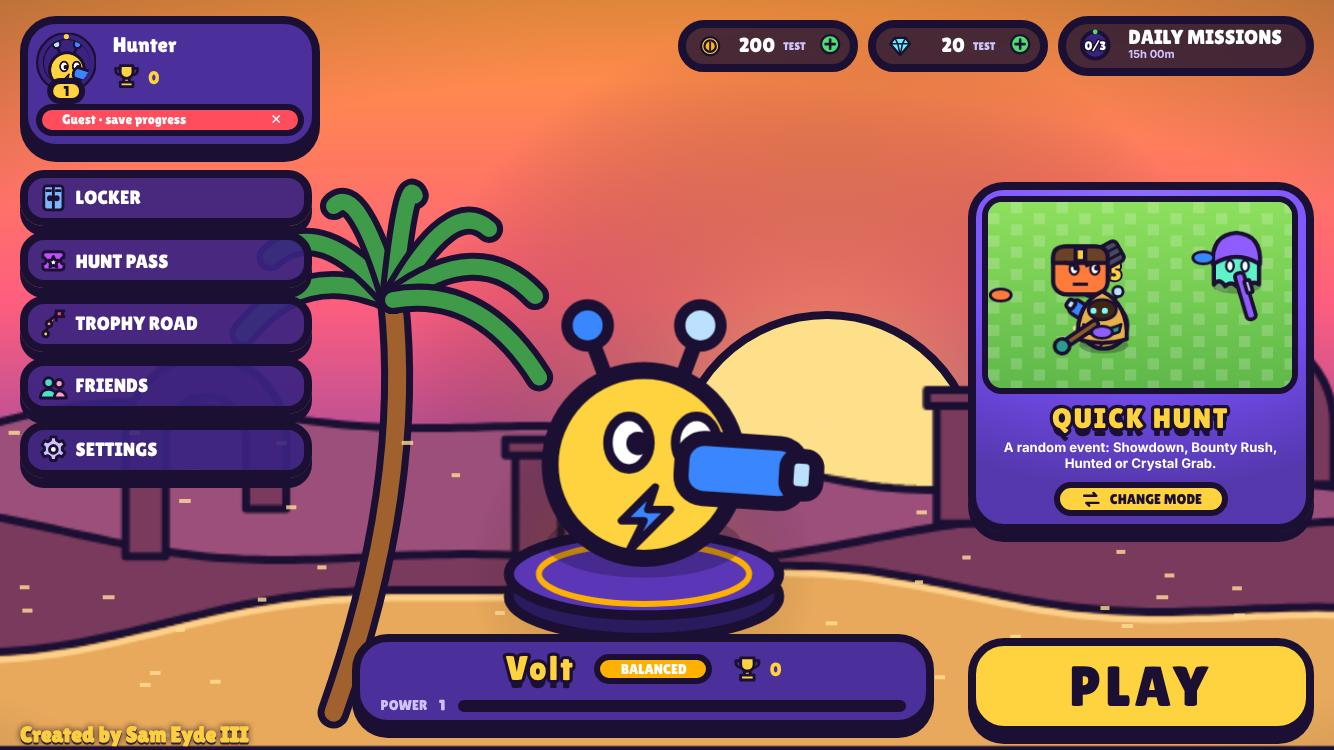
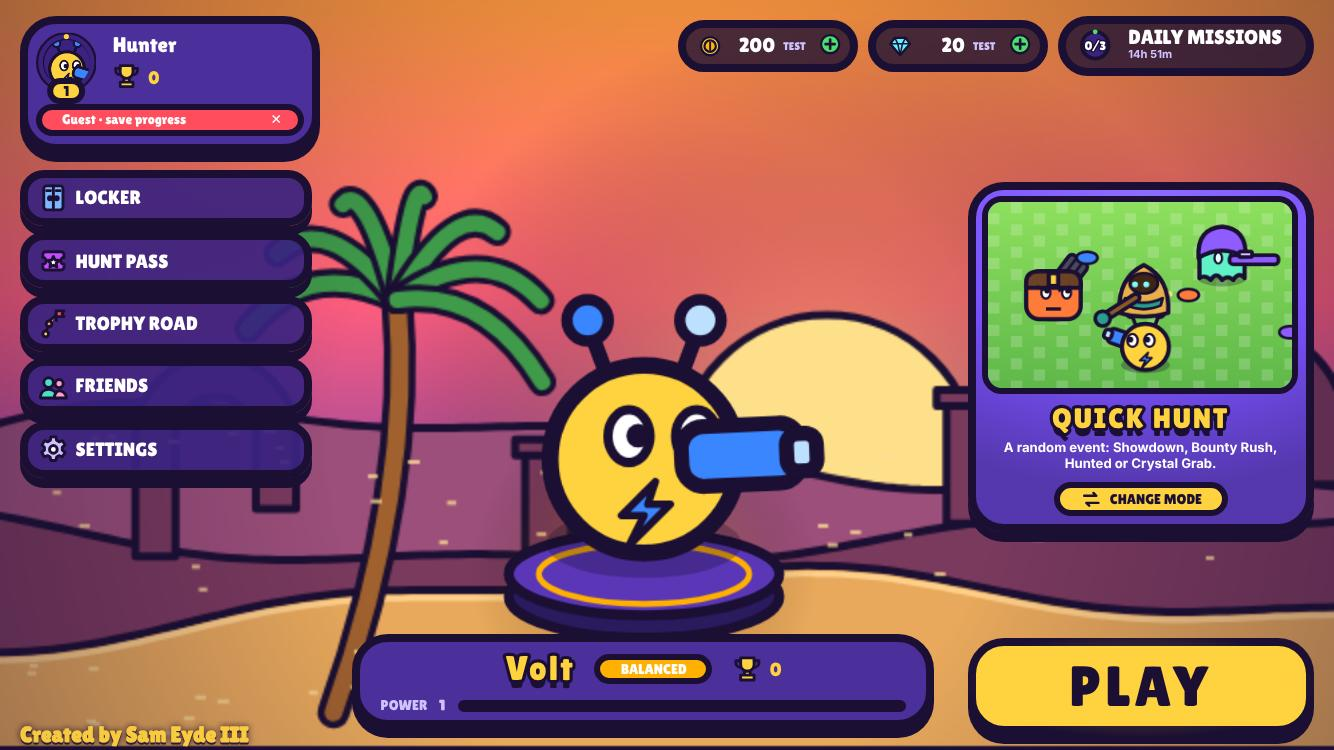
UI overhaul: perf tuning, results pose scale, tests, screenshots + report
- lobby: cached sky/sun/vignette, opacity-only PLAY glow, adaptive backdrop/stage
  resolution (13 -> 47 fps on throttled software-raster SE emulation; 60 with
  Low Graphics)
- feel/ui specs updated; music ducking verified
- docs/ui: every screen on iPhone SE / Pro Max / iPad, before/after lobby
- MORNING_REPORT.md: UI overhaul section

Claude-Session: https://claude.ai/code/session_01ULcSdMBoazBaVJdhzVFwFu

diff --git a/hunt/public/ui/scenes.js b/hunt/public/ui/scenes.js
@@ -124,20 +124,28 @@ function paintLayer(L, w, h, seed) {
 
 export class LobbyScene {
   constructor(canvas) { this.cv = canvas; this.g = canvas.getContext('2d'); this.world = null; this.layers = []; this.parts = []; this.staticDone = false; }
-  resize(w, h, dpr) { this.w = w; this.h = h; this.dpr = dpr; this.cv.width = Math.round(w * dpr); this.cv.height = Math.round(h * dpr); this.build(); }
+  // the backdrop is soft, so it renders at 1x (4x fewer pixels than 2x on phones)
+  resize(w, h, dpr) { this.w = w; this.h = h; this.dpr = Math.min(this.maxDpr ?? 1, dpr); this.cv.width = Math.round(w * this.dpr); this.cv.height = Math.round(h * this.dpr); this.build(); }
   setWorld(k) { if (this.world !== k) { this.world = k; this.build(); } }
   build() {
     if (!this.w || !this.world) return;
     const W = WORLDS[this.world] || WORLDS.mirage;
     this.layers = W.layers.map((L, i) => ({ L, cv: paintLayer(L, this.w * 2, this.h, i * 31 + this.world.length) }));
     this.parts = Array.from({ length: W.particles.n }, (_, i) => ({ x: Math.random(), y: Math.random(), s: 0.5 + Math.random(), p: Math.random() * 6 }));
+    this.sky = this.paintSky(W);
+    this.vig = this.paintVignette();
     this.staticDone = false;
   }
-  draw(t) {
-    if (!this.layers.length) return;
-    if (SETTINGS.lowGfx) { if (this.staticDone) return; t = 0; this.staticDone = true; } else this.staticDone = false;
-    const { g, w, h } = this, W = WORLDS[this.world] || WORLDS.mirage;
-    g.setTransform(this.dpr, 0, 0, this.dpr, 0, 0);
+  paintVignette() {
+    const { w, h } = this, cv = mkCanvas(Math.ceil(w), Math.ceil(h)), g = cv.getContext('2d');
+    const v = g.createRadialGradient(w / 2, h * 0.6, Math.min(w, h) * 0.45, w / 2, h * 0.6, Math.max(w, h) * 0.75);
+    v.addColorStop(0, 'rgba(27,16,51,0)'); v.addColorStop(1, 'rgba(27,16,51,.55)');
+    g.fillStyle = v; g.fillRect(0, 0, w, h);
+    return cv;
+  }
+  // sky gradient + sun + glow never move: paint them once per size/world
+  paintSky(W) {
+    const { w, h } = this, cv = mkCanvas(Math.ceil(w), Math.ceil(h)), g = cv.getContext('2d');
     const sky = g.createLinearGradient(0, 0, 0, h * 0.8);
     W.sky.forEach((c, i) => sky.addColorStop(i / (W.sky.length - 1), c));
     g.fillStyle = sky; g.fillRect(0, 0, w, h);
@@ -146,6 +154,15 @@ export class LobbyScene {
     glow.addColorStop(0, S.glow); glow.addColorStop(1, 'rgba(0,0,0,0)');
     g.fillStyle = glow; g.fillRect(0, 0, w, h);
     g.beginPath(); g.arc(w * 0.62, S.y * h, sr, 0, Math.PI * 2); g.fillStyle = S.c; g.fill(); g.lineWidth = 4; g.strokeStyle = INK; g.stroke();
+    return cv;
+  }
+  draw(t) {
+    if (!this.layers.length) return;
+    if (SETTINGS.lowGfx) { if (this.staticDone) return; t = 0; this.staticDone = true; } else this.staticDone = false;
+    const { g, w, h } = this, W = WORLDS[this.world] || WORLDS.mirage;
+    g.setTransform(this.dpr, 0, 0, this.dpr, 0, 0);
+    g.drawImage(this.sky, 0, 0, w, h);
+    const S = W.sun, sr = S.r * h;
     if (this.world === 'mirage' && !SETTINGS.lowGfx) { // heat shimmer bands across the low sun
       g.save(); g.globalAlpha = 0.25; g.strokeStyle = '#fff3d0'; g.lineWidth = 3;
       for (let k = 0; k < 4; k++) { g.beginPath(); for (let x = w * 0.62 - sr * 1.4; x < w * 0.62 + sr * 1.4; x += 8) g.lineTo(x, S.y * h + sr * 0.2 + k * 10 + Math.sin(x * 0.05 + t * 3 + k) * 3); g.stroke(); }
@@ -157,6 +174,7 @@ export class LobbyScene {
     }
     this.prop(g, W.prop, t);
     if (!SETTINGS.lowGfx) this.particles(g, W.particles, t);
+    g.drawImage(this.vig, 0, 0, w, h);
   }
   prop(g, kind, t) {
     const { w, h } = this, sway = SETTINGS.reduceFlash ? 0 : Math.sin(t * 0.9) * 0.06;

diff --git a/hunt/public/ui/lobby.css b/hunt/public/ui/lobby.css
@@ -5,7 +5,6 @@
   grid-template-areas: ". . . . ." ". left top top ." ". left stage right ." ". left stage play ." ". . . . ."; }
 #lobbyBg { position: absolute; inset: 0; width: 100%; height: 100%; z-index: 0; }
 .lobby > * { position: relative; z-index: 1; }
-.lobby::after { content: ''; position: absolute; inset: 0; background: radial-gradient(120% 90% at 50% 60%, transparent 55%, rgba(27,16,51,.55)); pointer-events: none; z-index: 0; }
 
 /* top bar */
 .lb-top { grid-area: top; display: flex; justify-content: flex-end; gap: calc(var(--u) * 1); align-items: center; flex-wrap: wrap; }
@@ -61,9 +60,11 @@
 .ribbon { position: absolute; top: 10px; right: -8px; background: var(--red); color: #fff; font-family: var(--font); font-size: calc(var(--u) * 1.4); border: 3px solid var(--ink); padding: 1px 10px; transform: rotate(8deg); box-shadow: var(--drop); z-index: 2; }
 .ribbon.event { background: var(--mint); color: var(--ink); }
 .play { grid-area: play; align-self: end; justify-self: stretch; margin-top: calc(var(--u) * 1); }
-.btn.play { font-size: calc(var(--u) * 5.6); padding: calc(var(--u) * 1.2) calc(var(--u) * 2); letter-spacing: 2px; animation: play-glow 2.4s ease-in-out infinite; }
-@keyframes play-glow { 0%, 100% { box-shadow: var(--drop), 0 0 0 0 rgba(255, 210, 63, 0); } 50% { box-shadow: var(--drop), 0 0 calc(var(--u) * 3) calc(var(--u) * .6) rgba(255, 210, 63, .55); } }
-body.reduce-flash .btn.play { animation: none; box-shadow: var(--drop), 0 0 calc(var(--u) * 2) rgba(255, 210, 63, .45); }
+.btn.play { font-size: calc(var(--u) * 5.6); padding: calc(var(--u) * 1.2) calc(var(--u) * 2); letter-spacing: 2px; }
+/* pulsing glow on a separate layer: only opacity animates, so the browser never repaints the button */
+.btn.play::before { content: ''; position: absolute; inset: calc(var(--u) * -1.2); border-radius: calc(var(--radius) + 10px); background: radial-gradient(closest-side, rgba(255, 210, 63, .7), rgba(255, 210, 63, 0)); z-index: -1; animation: play-glow 2.4s ease-in-out infinite; will-change: opacity; pointer-events: none; }
+@keyframes play-glow { 0%, 100% { opacity: .15; } 50% { opacity: .9; } }
+body.reduce-flash .btn.play::before { animation: none; opacity: .5; }
 #lobby #credit { position: absolute; z-index: 3; left: var(--sa-l); right: auto; bottom: max(2px, env(safe-area-inset-bottom)); color: var(--gold); font-family: var(--font); font-size: 11px; opacity: .9; text-shadow: 0 1px 0 var(--ink), 0 0 3px var(--ink); }
 
 /* portrait phones: stack it */

diff --git a/hunt/public/ui/lobby.js b/hunt/public/ui/lobby.js
@@ -68,8 +68,18 @@ export function createLobby(api) {
   const stage = $('stage'), sg = stage.getContext('2d'), mcv = $('modeCv'), mg = mcv.getContext('2d');
   const av = $('avatarCv').getContext('2d');
 
+  // adaptive quality: slow frames step the backdrop/stage resolution down (soft backdrop upscales fine)
+  const Q = [{ bg: 1, st: 1.5 }, { bg: 0.75, st: 1.25 }, { bg: 0.5, st: 1 }];
+  L.q = 0; L.avg = 16.7; L.slow = 0; L.fast = 0;
+  function adapt(dt) {
+    L.avg += (dt - L.avg) * 0.08;
+    if (L.avg > 19) { L.slow += dt; L.fast = 0; } else if (L.avg < 14) { L.fast += dt; L.slow = 0; }
+    if (L.slow > 800 && L.q < Q.length - 1) { L.q++; L.slow = 0; resize(); }
+    else if (L.fast > 10000 && L.q > 0) { L.q--; L.fast = 0; resize(); }
+  }
   function resize() {
-    const dpr = SETTINGS.lowGfx ? 1 : Math.min(2, devicePixelRatio || 1);
+    const dpr = SETTINGS.lowGfx ? 1 : Math.min(Q[L.q].st, devicePixelRatio || 1);
+    scene.maxDpr = SETTINGS.lowGfx ? 1 : Q[L.q].bg;
     scene.resize(innerWidth, innerHeight, dpr);
     const r = stage.getBoundingClientRect();
     stage.width = Math.max(1, Math.round(r.width * dpr)); stage.height = Math.max(1, Math.round(r.height * dpr)); L.dpr = dpr;
@@ -146,6 +156,8 @@ export function createLobby(api) {
     L.raf = 0;
     if (root.hidden) return;
     const t = (now - L.t0) / 1000;
+    if (L.lastNow) adapt(Math.min(100, now - L.lastNow));
+    L.lastNow = now;
     scene.draw(t);
     drawStage(t);
     drawModePreview(mg, L.mode === 'free' ? 'free' : L.mode, mcv.width, mcv.height, t);
@@ -187,9 +199,9 @@ export function createLobby(api) {
     if (!L.raf) L.raf = requestAnimationFrame(loop);
     startMusic();
   }
-  function hide() { root.hidden = true; stopMusic(); }
+  function hide() { root.hidden = true; L.lastNow = 0; stopMusic(); }
   // music needs a user gesture on mobile: start on the first tap in the lobby
   root.addEventListener('pointerdown', () => { unlockAudio(); if (!root.hidden) startMusic(); }, { once: false });
-  return { show, hide, refresh, get mode() { return L.mode; } };
+  return { show, hide, refresh, get mode() { return L.mode; }, perf: () => ({ q: L.q, avg: L.avg }) };
 }
 export { ICONS };

diff --git a/hunt/tests/e2e/ui.spec.js b/hunt/tests/e2e/ui.spec.js
@@ -82,6 +82,7 @@ test('lobby music plays after a tap and ducks under popups; Low Graphics freezes
   await page.waitForTimeout(300);
   expect(await page.evaluate(async () => (await import('/ui/music.js')).isDucked())).toBe(false);
   await page.click('#rail_settings'); await page.check('#setLow'); await page.click('.ui-screen .back');
+  await page.waitForTimeout(500); // the static Low Graphics frame (at 1x) is drawn once
   const a = await page.evaluate(() => document.getElementById('lobbyBg').toDataURL().length);
   await page.waitForTimeout(600);
   const b = await page.evaluate(() => document.getElementById('lobbyBg').toDataURL().length);

diff --git a/hunt/tests/e2e/feel.spec.js b/hunt/tests/e2e/feel.spec.js
@@ -34,7 +34,9 @@ test('end screen: victory pose + Top Bounty Hunter MVP banner', async ({ page })
 
 test('Reduce Flashing: no screen shake', async ({ page }) => {
   await page.goto('/');
+  await page.click('#rail_settings');
   await page.check('#setFlash');
+  await page.click('.ui-screen .back');
   await page.goto('/?world=meadow&mode=bounty');
   await waitMe(page);
   const s = await page.evaluate(async () => { const G = window.__hunt; G.shake = 20; await new Promise((r) => setTimeout(r, 100)); return G.shake; });

diff --git a/hunt/public/game.js b/hunt/public/game.js
@@ -323,7 +323,7 @@ function startPose(won) {
     const t = (now - t0) / 1000;
     c2.setTransform(d, 0, 0, d, 0, 0); c2.clearRect(0, 0, cv.width, cv.height);
     const w = cv.clientWidth, h = cv.clientHeight;
-    const fit = Math.min(1.6, h / 70); // brawler is ~70 units tall at scale 1
+    const fit = Math.min(4, h / 80, w / 70); // brawler is ~70 units tall at scale 1
     let y = h * 0.66, face = 0.3, sc = fit;
     if (won) {
       const k = Math.min(1, t / 1.2);

diff --git a/hunt/MORNING_REPORT.md b/hunt/MORNING_REPORT.md
@@ -195,3 +195,131 @@ Debug flags:
 - `?world=<key>&mode=<mode>&ev=<event>` puts you straight into a match with bots.
 - `?mapview=1` shows the whole map with collision boxes.
 - `?free=1` goes straight to Free Play.
+
+---
+
+# UI overhaul (branch `ui/overhaul`)
+
+Every screen outside a match was rebuilt on one design system, in the same bold cartoon style. All art is drawn in code or SVG, the music is synthesized live, and there are no image or audio files.
+
+## Lobby: before / after
+
+| | iPhone SE | iPhone Pro Max | iPad |
+|---|---|---|---|
+| **Before** | ![](docs/ui/before-lobby-se.jpg) | ![](docs/ui/before-lobby-promax.jpg) | ![](docs/ui/before-lobby-ipad.jpg) |
+| **After** | ![](docs/ui/ui-lobby-se.jpg) | ![](docs/ui/ui-lobby-promax.jpg) | ![](docs/ui/ui-lobby-ipad.jpg) |
+
+## What's new
+
+**Design system**
+- `public/ui/tokens.css` is the single place for colours, the one outline thickness, the one shadow, 3 button sizes (`btn-sm`/`md`/`lg`), 2 card styles (`card-a` solid, `card-b` art card with a role-coloured backdrop), motion timing and safe-area padding.
+- Sizes scale from the screen's short side, so the same layout fits an iPhone SE and an iPad.
+- `public/ui/icons.js` holds one SVG icon style: chunky fill with the shared ink outline.
+
+**Lobby**
+- **Living background.** Parallax layers of the featured world: Desert Mirage has dunes, ruins, a low sun with heat shimmer, a swaying palm and drifting sand. It rotates to a different world each day, and `?featured=<world>` forces one.
+- **Centre stage.** Your brawler stands on a glowing pedestal at about 40% of screen height, and idles with a bob, blink and weapon twirl. Tapping it plays a taunt; tapping again opens brawler select. The name plate shows name, role, trophies and a power-level bar.
+- **Left rail.**
+  - Profile card: avatar, name, level ring with an XP arc, and trophies.
+  - The guest banner is now a small dismissible "Guest · save progress" chip on the card.
+  - Icon buttons for Locker, Hunt Pass, Trophy Road, Friends and Settings, each with a red dot when something is claimable or new.
+- **Top bar.** Test coins and test gems, each with a "+" chip; the "+" explains test currency, since there are no payments. A daily-missions chip shows a progress ring and the time until reset.
+- **Mode card.** An animated preview of the current mode, a ribbon, and a tap to open the mode picker.
+- **PLAY button.**
+  - Bottom-right, chunky yellow with a pulsing glow.
+  - Press-squash, release-bounce and a play sound.
+  - Tested to stay fully on screen on all three sizes, and never to overlap the mode card.
+- **Moved off the main screen.** Your name lives in Profile and the room code in a Play with Friends popup. "Created by Sam Eyde III" stays visible in gold, small, bottom-left.
+
+**Brawler select**
+- Large role-coloured cards, with the brawler drawn bursting out of the top of the frame.
+- Role filter chips.
+- Tapping a card flips open a detail panel:
+  - an animated portrait;
+  - Health / Damage / Speed / Range bars;
+  - looping demo animations for the Attack and the Super;
+  - the skin picker.
+
+**Mode picker**
+- Quick Hunt, Squad Hunt (NEW), Free Play and Showdown (EVENT), each with animated art, a one-line description and the player count.
+- The 9 world events are previewed as icons along the bottom.
+- Quick play can now queue for one specific mode: the matchmaker keeps a separate filling match per mode.
+
+**Locker**
+- Skins on rotating pedestals, plus Kill Effects and Titles tabs.
+- A big live preview of the equipped look, with a kill-effect preview button.
+
+**Hunt Pass**
+- A horizontally scrolling track: premium row on top, free row below.
+- A progress bar that fills with a shine.
+- Claiming pops the reward and flies coins into the top-bar counter, with light rays.
+
+**Trophy Road**
+- A winding vertical path with milestones and rewards on alternating sides.
+- It auto-scrolls to your position, marked with a glowing marker.
+
+**Match flow**
+- **Matchmaking:** your brawler runs in place on a spinning radar, with a players-found counter ("3/10 hunters found · starts in 6"), rotating tips and a cancel button.
+- **Match intro:** a 2-second VS splash with "ENTERING DESERT MIRAGE" and the mode name.
+- **Results:**
+  - the rank slams in, then your brawler's victory pose (or a sulk);
+  - trophies count up and the XP bar fills;
+  - bounty earned and KOs, plus the Top Bounty Hunter MVP banner;
+  - Play Again and Lobby buttons.
+
+**Motion and sound**
+- Every button squashes on press, bounces on release and plays a click.
+- Screens slide and scale in over about 260 ms with ease-out and fade out; popups pop in. There are no hard cuts.
+- Rewards fire light rays and confetti; under Reduce Flashing that becomes a soft fade only.
+- **Original lobby music:** an upbeat 4-bar loop at 116 BPM (bass bounce, plucky lead, pad, drums) synthesized live. It ducks under popups.
+- Settings has separate Music and SFX sliders.
+
+**Daily missions and gems (test currency)**
+- 3 missions a day, the same for every player, resetting at 00:00 UTC.
+- Progress is tracked on the server when a match is recorded; rewards are test coins or gems.
+
+## Every screen on 3 devices
+
+| Screen | | | |
+|---|---|---|---|
+| Lobby | [iPhone SE](docs/ui/ui-lobby-se.jpg) | [iPhone Pro Max](docs/ui/ui-lobby-promax.jpg) | [iPad](docs/ui/ui-lobby-ipad.jpg) |
+| Brawler select | [iPhone SE](docs/ui/ui-brawlers-se.jpg) | [iPhone Pro Max](docs/ui/ui-brawlers-promax.jpg) | [iPad](docs/ui/ui-brawlers-ipad.jpg) |
+| Brawler detail (flip panel) | [iPhone SE](docs/ui/ui-detail-se.jpg) | [iPhone Pro Max](docs/ui/ui-detail-promax.jpg) | [iPad](docs/ui/ui-detail-ipad.jpg) |
+| Mode picker | [iPhone SE](docs/ui/ui-modes-se.jpg) | [iPhone Pro Max](docs/ui/ui-modes-promax.jpg) | [iPad](docs/ui/ui-modes-ipad.jpg) |
+| Locker | [iPhone SE](docs/ui/ui-locker-se.jpg) | [iPhone Pro Max](docs/ui/ui-locker-promax.jpg) | [iPad](docs/ui/ui-locker-ipad.jpg) |
+| Hunt Pass | [iPhone SE](docs/ui/ui-pass-se.jpg) | [iPhone Pro Max](docs/ui/ui-pass-promax.jpg) | [iPad](docs/ui/ui-pass-ipad.jpg) |
+| Trophy Road | [iPhone SE](docs/ui/ui-road-se.jpg) | [iPhone Pro Max](docs/ui/ui-road-promax.jpg) | [iPad](docs/ui/ui-road-ipad.jpg) |
+| Matchmaking | [iPhone SE](docs/ui/ui-matchmaking-se.jpg) | [iPhone Pro Max](docs/ui/ui-matchmaking-promax.jpg) | [iPad](docs/ui/ui-matchmaking-ipad.jpg) |
+| Match intro (VS) | [iPhone SE](docs/ui/ui-intro-se.jpg) | [iPhone Pro Max](docs/ui/ui-intro-promax.jpg) | [iPad](docs/ui/ui-intro-ipad.jpg) |
+| Results | [iPhone SE](docs/ui/ui-results-se.jpg) | [iPhone Pro Max](docs/ui/ui-results-promax.jpg) | [iPad](docs/ui/ui-results-ipad.jpg) |
+| Profile | [iPhone SE](docs/ui/ui-profile-se.jpg) | [iPhone Pro Max](docs/ui/ui-profile-promax.jpg) | [iPad](docs/ui/ui-profile-ipad.jpg) |
+| Settings | [iPhone SE](docs/ui/ui-settings-se.jpg) | [iPhone Pro Max](docs/ui/ui-settings-promax.jpg) | [iPad](docs/ui/ui-settings-ipad.jpg) |
+| Play with Friends | [iPhone SE](docs/ui/ui-friends-se.jpg) | [iPhone Pro Max](docs/ui/ui-friends-promax.jpg) | [iPad](docs/ui/ui-friends-ipad.jpg) |
+| Daily missions | [iPhone SE](docs/ui/ui-missions-se.jpg) | [iPhone Pro Max](docs/ui/ui-missions-promax.jpg) | [iPad](docs/ui/ui-missions-ipad.jpg) |
+
+## Checks
+
+- **Tests:** 35 Playwright tests pass on Chromium. New in `tests/e2e/ui.spec.js`:
+  - For each of the 3 sizes, PLAY, the profile card, mode card, name plate, missions chip, Settings button and credit are all fully inside the screen, and PLAY never overlaps the mode card.
+  - Every screen opens and closes through its transition.
+  - The mode picker changes the mode card.
+  - Missions show 3 entries.
+  - The full PLAY → matchmaking radar → VS intro → match → results → lobby flow.
+  - Music starts after a tap and ducks under popups.
+  - Low Graphics freezes the background.
+- **Performance:** emulated iPhone SE (667×375 at 2×) with Chromium's CPU throttled 4× and **software rendering** (no GPU here). This is pessimistic; a real phone uses its GPU.
+
+  | Lobby | Before tuning | After |
+  |---|---|---|
+  | Full graphics | 13 fps | **47 fps** |
+  | Low Graphics | n/a | **60 fps** |
+
+  Tuning: the static sky, sun and vignette are cached; the PLAY glow animates only opacity; and adaptive resolution steps the soft backdrop and stage down when frames run long. **Needs confirming on a real iPhone SE.**
+- **Low Graphics** turns off the moving background and particles, drawing a single static frame. **Reduce Flashing** turns off strobing, pulsing and confetti, leaving steady glows and soft fades.
+
+## Notes and next decisions
+
+- **Friends list:** the Friends button opens Play with Friends (room code, a new-code generator, share/copy). A real friends list needs a social backend; it's marked "coming soon".
+- **The "+" chips** explain test currency rather than selling anything. When Apple payments are added, this is where a store would go.
+- **Power level** is cosmetic for now: it's derived from trophies (one level per 50, max 11). Decide whether you want a real upgrade system.
+- **Brawler locks:** the lock state is designed and drawn, but every brawler is unlocked today. Decide on unlock rules, such as trophy-road unlocks.
